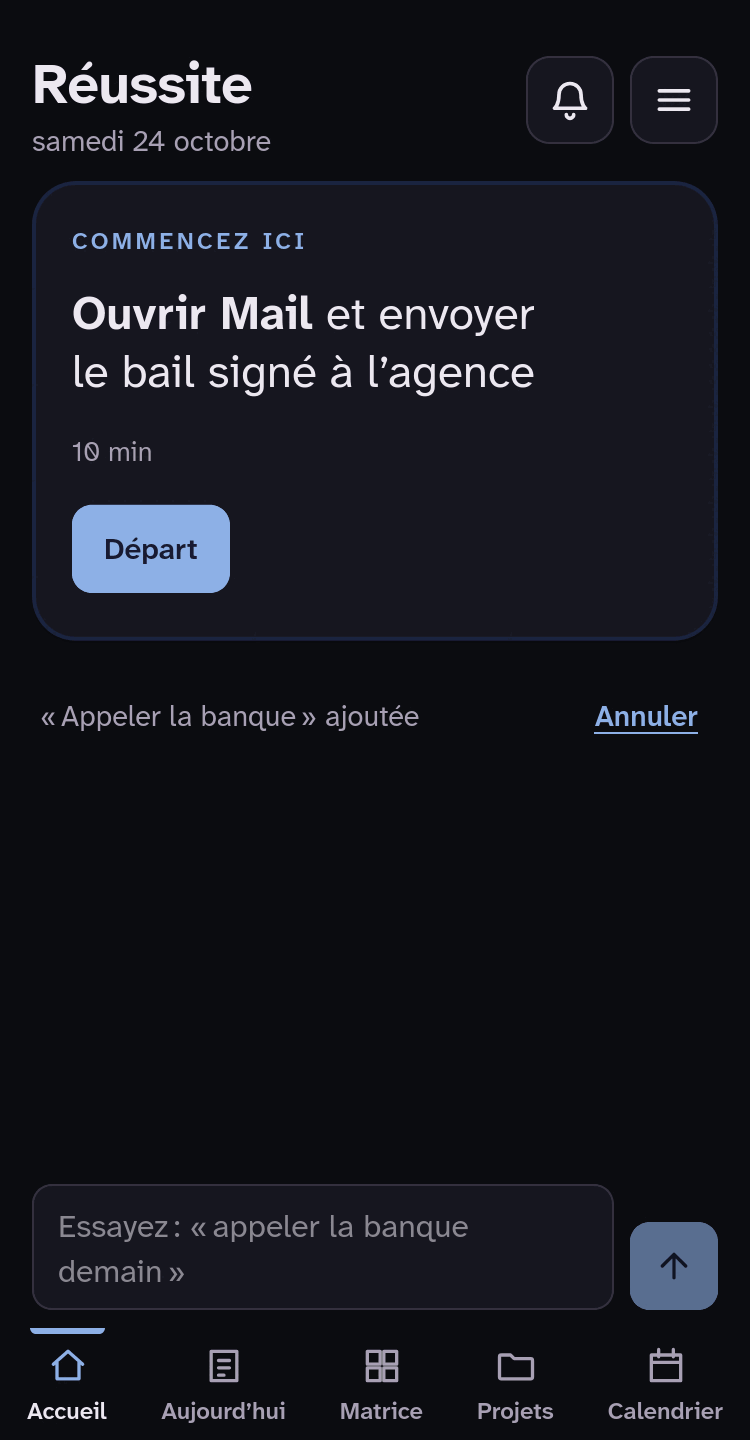
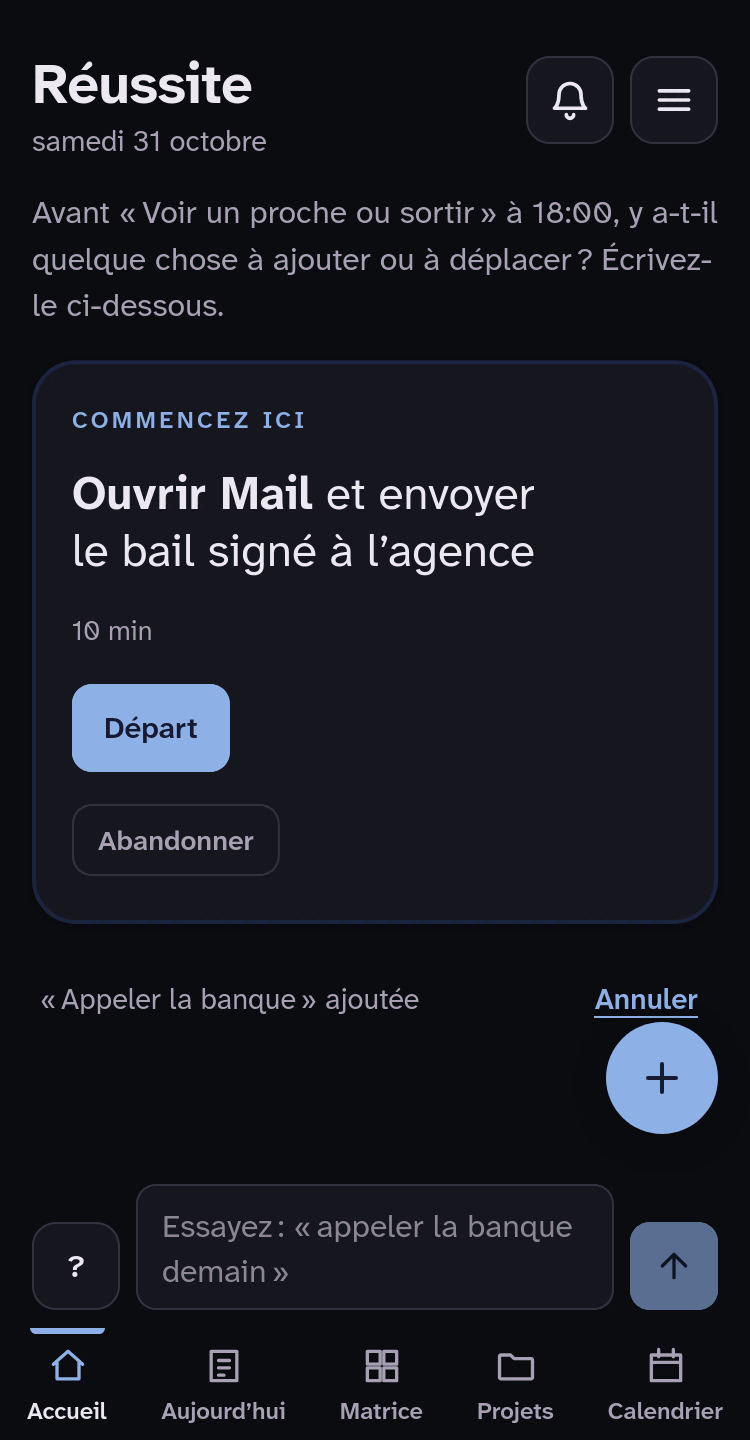
Docs for the one order, the greeting line and done folding; Home and Today pictures
Manual (English and French): Start here follows the clock, the greeting line, done steps fold.
Developer notes, DECISIONS, CHANGELOG, AGENTS layout. New pictures of Home and Today.

Claude-Session: https://claude.ai/code/session_01PoqEP42m8ZAqBBYY1MyYki

diff --git a/AGENTS.md b/AGENTS.md
@@ -18,9 +18,9 @@ Réussite is a local-first PWA for planning with a CBT method for adult ADHD. Th
 
 ## Layout
 
-- `src/domain/` — pure functions with no I/O: dates and the day-start rule, urgency and quadrants, ratio, duration buttons, link resolution, repeats, chains (`chains.ts`: steps that wait for one another as one card, one pure index shared with the relay), event steps (`events.ts`: something waited for, its nudge and the Waiting for list), personal estimates, the planner, decision scores, stays, matrix moves, calendar grids, and Home's: the line parser (`parse.ts`, grammar in `docs/dev/home.md`), the greeting (`greeting.ts`), memory notes and their format in a prompt (`memory.ts`), memory import and export as Markdown (`memoryMd.ts`), and the one name-matching rule (`names.ts`: `findByName`, `mentions`); areas in use (`areas.ts`: select order, chips, grouping, half days; the rules of areas themselves are `places.ts`) and a person's page (`people.ts`); phase 4b's: a step's short name for calendars (`label.ts`) and areas of a place (in `places.ts`: `zoneOfPlace`, `onPage`, `placeAndAreas`, `parentProblem`); and phase 4's: Maps links (`mapsLink.ts`), the offers for addresses and people (`offers.ts`, and `offerPick.ts`: what a picked offer sets on the step), the Google Takeout parser (`takeout.ts`) and the trip pack's text (`trip.ts`); and phase 4b's: short names (`label.ts`), areas (`places.ts`), what the calendar exports say of a step (`calItems.ts`: the all-day events and the three levels of detail; `ics.ts` only formats), the feed's text (`feedText.ts`, shared with the connector) and what the Calendar tab shows on each day (`calView.ts`: the hour grid's events and the all-day row). Every rule here has a unit test.
+- `src/domain/` — pure functions with no I/O: dates and the day-start rule, urgency and quadrants, ratio, duration buttons, link resolution, repeats, chains (`chains.ts`: steps that wait for one another as one card, one pure index shared with the relay), event steps (`events.ts`: something waited for, its nudge and the Waiting for list), personal estimates, the planner, decision scores, stays, matrix moves, calendar grids, and Home's: the line parser (`parse.ts`, grammar in `docs/dev/home.md`), the greeting (`greeting.ts`: the card under it and the line above it, templates picked without repeats), the day's one order (`dayOrder.ts`: fixed-time items and the planned steps laid out against the clock; Start here on Home and Today, Today's list and the next-step bar all read it, `dayOrderOf` in `src/app/model.ts`), memory notes and their format in a prompt (`memory.ts`), memory import and export as Markdown (`memoryMd.ts`), and the one name-matching rule (`names.ts`: `findByName`, `mentions`); areas in use (`areas.ts`: select order, chips, grouping, half days; the rules of areas themselves are `places.ts`) and a person's page (`people.ts`); phase 4b's: a step's short name for calendars (`label.ts`) and areas of a place (in `places.ts`: `zoneOfPlace`, `onPage`, `placeAndAreas`, `parentProblem`); and phase 4's: Maps links (`mapsLink.ts`), the offers for addresses and people (`offers.ts`, and `offerPick.ts`: what a picked offer sets on the step), the Google Takeout parser (`takeout.ts`) and the trip pack's text (`trip.ts`); and phase 4b's: short names (`label.ts`), areas (`places.ts`), what the calendar exports say of a step (`calItems.ts`: the all-day events and the three levels of detail; `ics.ts` only formats), the feed's text (`feedText.ts`, shared with the connector) and what the Calendar tab shows on each day (`calView.ts`: the hour grid's events and the all-day row). Every rule here has a unit test.
 - `src/data/` — the data model (`schema.ts`), hybrid logical clock (`hlc.ts`), documents with per-field clocks and tombstones (`doc.ts`), Dexie database (`db.ts`), migrations, v1 importer, backups, settings defaults.
-- `src/app/` — state (`store.ts`: signals mirroring IndexedDB, and the only place that writes), read helpers (`model.ts`), write actions (`actions.ts`), shared UI and sheets, `More`/`Fold` (the folded optional fields of every form and the folded Settings sections, `More.tsx`), theme; Home's logic, exchanges and Undo (`home.ts`), the views and the hash (`nav.ts`), keyboard detection for the bottom bar (`keyboard.ts`), Memory's writes (`memoryActions.ts`), addresses and people (create, edit, record a visit, last seen: `actions.ts`; offers and categories: `model.ts`), the read-only banner's Reload (`reload.ts`), the area filter per view (`areas.ts`) and its chips and editor (`AreaUi.tsx`), the Places sheet (`PlacesSheet.tsx`), Addresses and people's sheets and the after-visit screen (`AddressSheets.tsx`) and the Takeout import (`TakeoutSheet.tsx`).
+- `src/app/` — state (`store.ts`: signals mirroring IndexedDB, and the only place that writes), read helpers (`model.ts`), write actions (`actions.ts`), shared UI and sheets, `More`/`Fold` (the folded optional fields of every form and the folded Settings sections, `More.tsx`), theme; Home's logic, exchanges and Undo (`home.ts`), the views and the hash (`nav.ts`), keyboard detection for the bottom bar (`keyboard.ts`), Memory's writes (`memoryActions.ts`), addresses and people (create, edit, record a visit, last seen: `actions.ts`; offers and categories: `model.ts`), the read-only banner's Reload (`reload.ts`), the "N done" fold under a list (`DoneFold.tsx`, with `splitDone` in `lists.ts`), the greeting lines already shown today (`greetingShown.ts`), the area filter per view (`areas.ts`) and its chips and editor (`AreaUi.tsx`), the Places sheet (`PlacesSheet.tsx`), Addresses and people's sheets and the after-visit screen (`AddressSheets.tsx`) and the Takeout import (`TakeoutSheet.tsx`).
 - `src/ai/` — AI (phase 2): provider adapters (`adapters.ts`), the one entry point `ask`/`askChanges` with "Show me what's sent" (`ask.ts`), prompt and context building (`context.ts`), the change-set contract (`changeset.ts`, documented in `docs/CHANGESET.md`), pure plan-and-apply (`apply.ts`) with the app's writer (`writer.ts`), the review screen (`Review.tsx`), the command box, Ask any AI and Paste the reply (`ui.tsx`), Settings → AI (`AiSettings.tsx`), the pure Undo shared with the relay (`undo.ts`), model prices and the monthly cap (`prices.ts`). "Plan this trip" (phase 4) builds its pack in `trip.ts` from a stay in Settings, and its reply comes back through Paste the reply; `address.create` is an op of the app only (the connector refuses it).
 - `src/push/` — Web Push (phase 3b): the shared types and limits (`protocol.ts`), RFC 8291 encryption (`encrypt.ts`), VAPID tokens (`vapid.ts`), the reconciler's diff (`reconcile.ts`), the notification payload (`notification.ts`), the relay calls (`client.ts`), what the browser supports (`support.ts`). The schedule itself is `src/domain/notify.ts`; the app side is `src/app/push.ts` and `NotifySettings.tsx`; see `docs/dev/push.md`.
 - `src/feed/` — the calendar feed's ids and limits shared with the relay (`protocol.ts`); the upload is `src/app/feed.ts`, the text is `src/domain/ics.ts`; see `docs/dev/feed.md`.

diff --git a/DECISIONS.md b/DECISIONS.md
@@ -362,3 +362,6 @@ One line each: date, decision, why.
 - 2026-10-31 · Event steps in the change-set and the connector: `kind: 'event'` and `nudge` (a day or null) are accepted on `task.create` and `task.update` (and a decision's `steps`); an event given an estimate, starter, urgent or important flag, due date, time, duration, lead, weekdays or `template` is refused with a message naming them, and `nudge` on a step is refused (null, false and empty values are fine). Turning a step into an event with `task.update` sets those fields to nothing (`toEventFields`) and takes it off every day's list, and is not done to a running, done or standing step; an update that gives a stored event an estimate comes back as invalid in the connector (nothing written) and is cut back in the app's review (`Plan.notes`). Low-risk is unchanged: making one event and marking one happened (`task.done`, `day` today or any past day) are low-risk like adding and ticking a step; every other change to an event waits for a yes. `query_tasks` marks an event `[waiting for, check D]` with no quadrant and lists them with the filter `waiting_for: true` (open by default, with days waited and what each holds back); `today` and `get_day` (today and later days) show `Check: …` rows from `nudgesDue`; an event done on a day is `Happened`, not a card. The app's writer already frees what waits for an event onto today's list (`finishTask`); the connector's `task.done` still touches no list (2026-10-23), so a step an event frees is an open head, seen by `query_tasks`, `get_project` and the next planning but on no day's list, and the receipt names it (`Freed by it: …`) so the AI can offer `day.update`. The method gains one paragraph under rule 5 (a waiting-for step, never estimated or scheduled; English and French). · An AI should not plan what the person only waits for, and a freed step must not go unnoticed; the rule about lists is kept as it was.
 - 2026-10-31 · The Matrix shows neither the running bar nor the next-step bar; only "Still on …?" for a forgotten timer stays. · The owner sorts there and doesn't want what's going on now or next in the way.
 - 2026-10-31 · Dropping a step says what it freed ("Dropped. Unlocked: …"), as "It happened" and done do; dropping never drops what waits on it. · The owner wants to see what a drop lets through, and a wait that is dropped is never taken to mean the plan behind it is off.
+- 2026-10-31 · One order for the day, `dayOrder` (`src/domain/dayOrder.ts`, pure): fixed-time items sit at `at − lead` and last to `at + dur` (30 minutes without one); the day's open cards fill the gaps greedily in planned order, a card that does not fit a gap waits for the next one and a later one that fits moves up, never split; cards with no estimate count as 15 minutes; "if there is room" cards come last and never count as over. A fixed item takes over Start here when `now + what is left of the step in hand + margin > at − lead`, with the margin a fifth of its estimate and at least 5 minutes, what is left being its estimate minus the time since `started` (a timestamp, floored at 0), and with nothing running the first step's estimate standing in. A fixed item whose end has passed and that is not done leaves the order and is listed as missed (a standing item never placed on the day just goes). Home, Today's card and list, and the next-step bar read it, so they cannot disagree; `startHere` and `fixedNow` ("Coming up") are gone. `dayEnd` (default 19:00) is a new setting, the floor for what is over. · A single clock-aware source ends the two bugs of 28–31 Oct (Start here ignoring the time, Coming up disagreeing with it), and gap filling is what a person does with a call at 14:00: use the hour before it for something that fits.
+- 2026-10-31 · The greeting line is a template, not an AI call: kinds eligible only when their data exists (the next fixed item, a project close to its goal, the time of day, steps done today, planned and not started), 2–3 templates each in `en.ts` and `fr.ts`, every one ending by inviting the person to type in the box and none counting what was missed or carried. `pickGreeting` takes the template shown longest ago (never shown first) in an order seeded by the day; the shown keys live in `localStorage` per day on this device (a failed storage just forgets), one more each time Home opens. · It must work offline and without a provider, and the owner wants it to vary without nagging; a unit test keeps the words database, record, entry and field (and their French) out.
+- 2026-10-31 · Done cards fold under their list as "N done ▸" (`splitDone` in `lists.ts`, one `DoneFold` component) on Today (and another day's list) and in each project, collapsed by default and keyboard-operable (a native `<details>`). The Matrix lists open steps only and the Calendar has no list of a day's cards, so they have nothing to fold. · A ticked card is out of the way and the open ones stay in view; the count is still there.

diff --git a/docs/dev/home.md b/docs/dev/home.md
@@ -46,12 +46,16 @@ Rules that are easy to get wrong:
 
 ## The greeting
 
-One pure function, `greeting` in `src/domain/greeting.ts`, run on the 30-second clock tick. In this order, the first that applies:
+Two pure things in `src/domain/greeting.ts`, both run on the 30-second clock tick, and one order they read, `dayOrder` (`src/domain/dayOrder.ts`, also what Today's Start here, its list and the next-step bar read; `dayOrderOf` in `src/app/model.ts` gathers the data).
 
-1. **A fixed-time item** (from the agenda: the same one that feeds push and the calendar feed) from `at − lead` until `at + dur` (30 minutes if it has no length), even over a running timer or a closed day. It shows the item and "leave at …". The earliest one wins.
-2. **A running timer**: the running step. The running bar steps aside only while the greeting is that step; "Still on…?" always shows.
+**The line** is a template from `en.ts`/`fr.ts` (`greet…` keys) with slots filled from real data, chosen when Home opens (`GreetingLine` in `Home.tsx`). Kinds, each eligible only when its data exists: the next fixed item ahead today ({time}, {title}), a project close to its goal (an active project with a step done and one or two left; the SMART measure replaces this), the time of day (morning until noon, afternoon until 18:00, evening after, by `dayStart`), steps done today ({n}, done only) and planned but not started ({n}, nothing done or running). Every template ends by inviting the person to type in the box, never counts what was missed or carried, and never says database, record, entry or field (a unit test scans both languages). `pickGreeting` returns the candidate shown longest ago (never shown first), in an order seeded by the day, so a template is not repeated within a day while another is eligible; the shown keys are in `localStorage` under the day (`reussite.greet.<day>`, `src/app/greetingShown.ts`, try/catch, older days dropped), one more each time Home mounts. It is the same with an AI on: no call is made.
+
+**The card** is `greeting()` over the first item of `dayOrder`. In this order, the first that applies:
+
+1. **A fixed-time item has taken over** (the first item of the order is a fixed one): it shows the item, its time and "leave at …", even over a running timer or a closed day. Fixed items are the agenda's (the same that feed push and the calendar feed) for the day, standing items not yet placed included.
+2. **A running timer** that is the first item: the running step. The running bar steps aside only while the greeting is that step; "Still on…?" always shows.
 3. **A closed day**: tomorrow's first step, or "No first step chosen for tomorrow yet."
-4. **The first open step on today's list**, with the person's own estimate and "usually" after it (never the personal estimate first, so it does not anchor).
+4. **The first item of the order** (the first step that fits before the next fixed item), with the person's own estimate and "usually" after it (never the personal estimate first, so it does not anchor).
 5. **Nothing on today's list yet**: Plan the day. **Everything on it done**: a line saying so, with Close the day.
 
 ## The card and the nudge

diff --git a/docs/manual/fr/home.md b/docs/manual/fr/home.md
@@ -6,12 +6,14 @@ L’accueil, c’est là où vous commencez. Il ne montre que votre **étape sui
 
 ## Ce que dit l’accueil
 
-Dans cet ordre, le premier cas qui s’applique :
+En haut, une ligne vous accueille. Elle est choisie parmi quelques phrases toutes prêtes et remplie avec ce qui est vrai aujourd’hui : la prochaine chose à heure fixe (« Quelque chose à déplacer avant “Dentiste” à 14:00 ? »), un projet presque au but, le moment de la journée, ce que vous avez déjà coché, ou ce qui est prévu. Elle ne compte jamais ce qui a été manqué ou reporté, et elle est la même avec ou sans IA. Rouvrez l’accueil et vous avez une autre phrase, pas deux fois la même dans une journée tant qu’une autre convient. Toutes finissent pareil : écrivez dans la boîte ci-dessous ce qu’il faut ajouter, déplacer ou cocher.
 
-1. **Une heure fixe approche.** Peu avant que vous deviez partir, elle prend le dessus et dit « partir à… ».
+Sous la ligne, dans cet ordre, le premier cas qui s’applique :
+
+1. **Une heure fixe a pris le dessus.** Commencez ici suit l’horloge (voir [Démarrer](daily-loop.md)). Quand l’étape en cours, avec une petite marge, empiéterait sur l’heure à laquelle vous devez partir, la prochaine chose à heure fixe prend le dessus. Elle dit son heure et « partir à… ».
 2. **Un chrono tourne.** Vous voyez l’étape, l’horloge, **Pause** et **Fait**.
 3. **La journée est close.** Vous voyez la première étape de demain.
-4. **Il y a une étape suivante.** Vous voyez **Commencez ici**, le démarreur et **Départ**. **Abandonner** abandonne l’étape si elle ne compte plus : touchez-le deux fois.
+4. **Il y a une étape suivante.** Vous voyez **Commencez ici**, le démarreur et **Départ**. C’est la même étape que sur Aujourd’hui. **Abandonner** abandonne l’étape si elle ne compte plus : touchez-le deux fois.
 5. **Rien n’est encore planifié.** Vous voyez **Planifier la journée**.
 
 L’accueil n’a ni compteurs, ni liste, ni séries. Ce qui vous attend ne gêne pas : une petite **cloche** en haut montre un point discret quand quelque chose attend, et ouvre la page **Notifications**.

diff --git a/docs/manual/fr/daily-loop.md b/docs/manual/fr/daily-loop.md
@@ -41,6 +41,10 @@ La liste du jour, ce sont les cartes du jour, y compris ce qui est à heure fixe
 
 ![Aujourd’hui : la première étape et le reste de la liste](shot:today)
 
+**Commencez ici suit l’horloge.** C’est la première étape qui tient avant votre prochaine heure fixe, dans l’ordre de votre liste. Une étape qui ne tient pas dans le creux attend le suivant, et une étape plus courte plus bas remonte ; une étape n’est jamais coupée en deux. Quand la prochaine chose à heure fixe approche, elle prend le dessus : Commencez ici devient cet élément, avec son heure et l’heure de départ. Cela arrive quand l’étape en cours (ce qu’il en reste si le chrono tourne, sinon son estimation), plus une marge d’un cinquième de sa durée et d’au moins 5 minutes, empiéterait sur l’heure à laquelle vous devez partir. Une étape sans estimation compte pour 15 minutes. Ce qui est à heure fixe et dont l’heure est passée sort de l’ordre. L’accueil, la carte et la liste d’Aujourd’hui, et la barre de l’étape suivante sur les autres onglets suivent ce même ordre. La liste d’Aujourd’hui indique l’heure à laquelle chaque étape devrait commencer (« ≈10:40 ») ; c’est une projection qui bouge avec l’horloge, pas une promesse. Faire glisser une étape par sa poignée règle toujours l’ordre de votre liste. Ce qui est à heure fixe garde son heure, où que vous le déposiez.
+
+**Les étapes faites se replient.** Sous la liste, les étapes que vous avez cochées sont rassemblées sur une ligne, « 3 faites ▸ ». Touchez-la, ou appuyez sur Entrée, pour les voir ; elles sont fermées au départ. Les projets replient leurs étapes faites de la même façon.
+
 Ajouter une étape à la main à aujourd’hui (ajout rapide, **Ajouter à aujourd’hui**, **Depuis votre liste**) la place juste après l’étape que vous chronométrez, ou avant la première pas encore faite. Elle n’attend pas au bout, derrière tout le plan.
 
 Vous pouvez faire glisser une étape par sa poignée pour changer l’ordre de la liste. Les flèches marchent toujours. Quand des étapes ont des zones, la liste est groupée sous le nom de la zone.

diff --git a/docs/manual/en/home.md b/docs/manual/en/home.md
@@ -6,12 +6,14 @@ Home is where you start. It shows only your **next step**. Under it there is one
 
 ## What Home says
 
-In this order, the first that applies:
+At the top, one line greets you. It is picked from a few ready-made sentences and filled with what is true today: the next thing at a fixed time ("Anything to move before “Dentist” at 14:00?"), a project that is nearly there, the time of day, what you have ticked off so far, or what is planned. It never counts what you missed or carried over, and it is the same with or without an AI. Open Home again and you get another sentence, not the same one twice in a day while another fits. They all end the same way: type in the box below what to add, move or tick off.
 
-1. **A fixed time is near.** Shortly before you need to leave, it takes over and says "leave at…".
+Under the line, in this order, the first that applies:
+
+1. **A fixed time has taken over.** Start here follows the clock (see [Start](daily-loop.md)). When the step you are on, with a small margin, would run into the time you need to leave, the next thing at a fixed time takes over. It says its time and "leave at…".
 2. **A timer is running.** You see the step, the clock, **Pause** and **Done**.
 3. **The day is closed.** You see tomorrow's first step.
-4. **There is a next step.** You see **Start here**, the starter and **Start**. **Drop it** drops the step if it no longer matters: tap it twice.
+4. **There is a next step.** You see **Start here**, the starter and **Start**. It is the same step Today shows. **Drop it** drops the step if it no longer matters: tap it twice.
 5. **Nothing is planned yet.** You see **Plan the day**.
 
 Home has no counts, no list and no streaks. What waits for you is not in the way: a small **bell** at the top shows a quiet dot when something is waiting, and opens the **Notifications** page.

diff --git a/docs/manual/en/daily-loop.md b/docs/manual/en/daily-loop.md
@@ -41,6 +41,10 @@ Today's list is the day's cards, and that includes the things at a fixed time: t
 
 ![Today: the first step and the rest of the list](shot:today)
 
+**Start here follows the clock.** It is the first step that fits before your next fixed time, in the order of your list. A step that does not fit the gap waits for the next one, and a shorter step further down moves up; a step is never cut in two. When the next thing at a fixed time gets close, it takes over: Start here becomes that item, with its time and when to leave. That happens when the step you are on (what is left of it if the timer is running, or its estimate if not), plus a margin of a fifth of its length and at least 5 minutes, would run into the time you need to leave. A step with no estimate counts as 15 minutes. Something at a fixed time whose time has passed leaves the order. Home, Today's card and list, and the next-step bar on the other tabs all follow this one order. Today's list shows when each step is expected to start ("≈10:40"); that is a projection that moves with the clock, not a promise. Dragging a step by its grip still sets the order of your list. Things at a fixed time keep their time, wherever you drop them.
+
+**Done steps fold.** Under the list, the steps you ticked off are gathered in a row, "3 done ▸". Tap it, or press Enter on it, to see them; they are closed by default. Projects fold their done steps the same way.
+
 Adding a step by hand to today (the round **+** button, **Add to today**, **From your list**) puts it right after the step you are timing, or before the first one not done yet. It doesn't wait at the end behind the whole plan.
 
 You can drag a step by its grip to put the list in another order. The arrows still work. When a step has areas, the list is grouped under the area's name.

diff --git a/CHANGELOG.md b/CHANGELOG.md
@@ -1,6 +1,9 @@
 # What's new
 
 ## Next — less clutter
+- Start here follows the clock. It is the first step that fits before your next fixed time; a step that doesn't fit the gap waits and a shorter one further down moves up. When the next thing at a fixed time gets close, it takes over, with its time and when to leave, on Home, on Today and in the bar on the other tabs, and they all agree. Today's list shows when each step is expected to start ("≈10:40"). "Coming up" is gone.
+- Home opens with one friendly line, picked from a few sentences and filled with what is true today (the next fixed time, a project nearly done, the time of day, what you ticked off). It doesn't repeat itself during a day, never counts what you missed, and works without an AI.
+- Done steps fold under their list as "3 done ▸" on Today and in each project.
 - The Calendar is only for things at a fixed time. The day's cards, what is due, decision checks, project dates and the weekly-review marker are no longer in it, nor in the feed or Add to calendar; they are in Today. Stays and half days stay as labels. The weekly review can be started from Settings → Method on any day.
 - On Today, Launch points are folded into one line ("Launch points · 09:30, 14:00"); open it to change them.
 - Forms are calmer. A step shows its title, Time, urgent and important, estimate and due date; the rest (short name, starter, suit, place, project, note, kind, app and link, repeat, weekdays) is under **More**, which says how many things are set ("More · 2 set"). Projects, addresses, people, the decision steps and the morning check-in fold their optional fields the same way. Settings sections are folded, and each shows only the controls most people use, with the rest under More.
